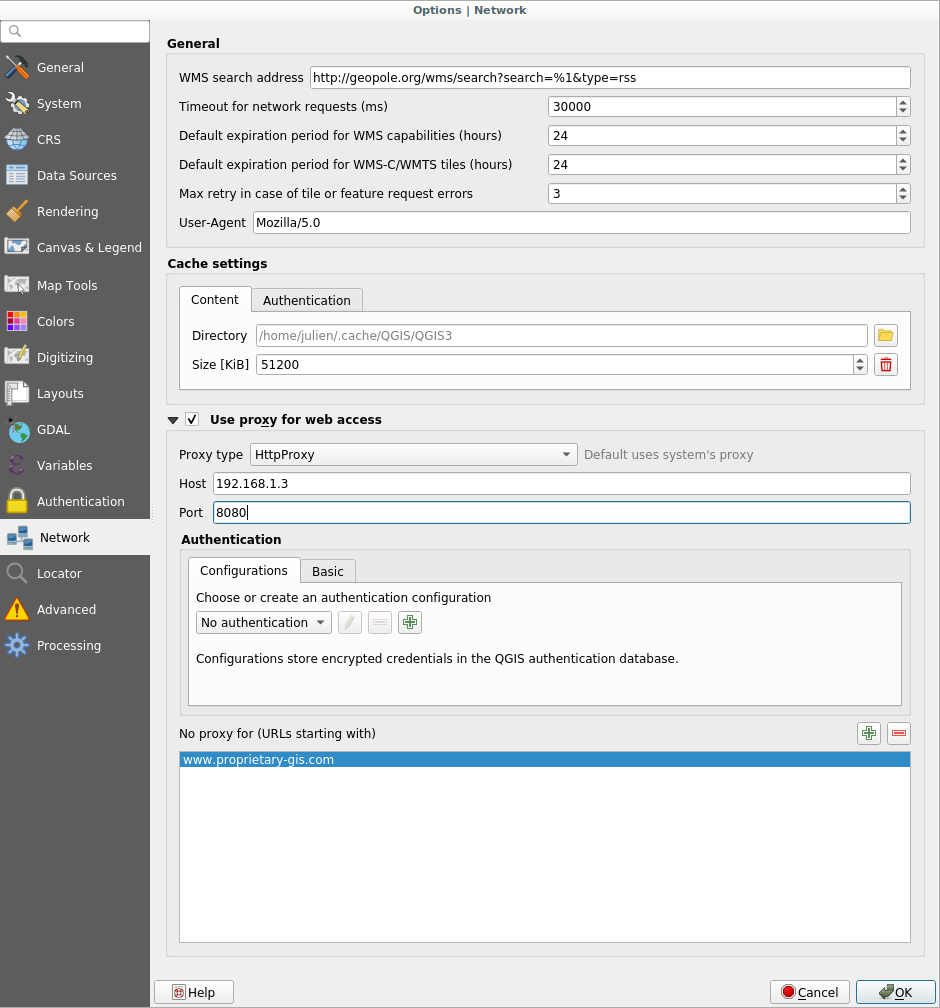
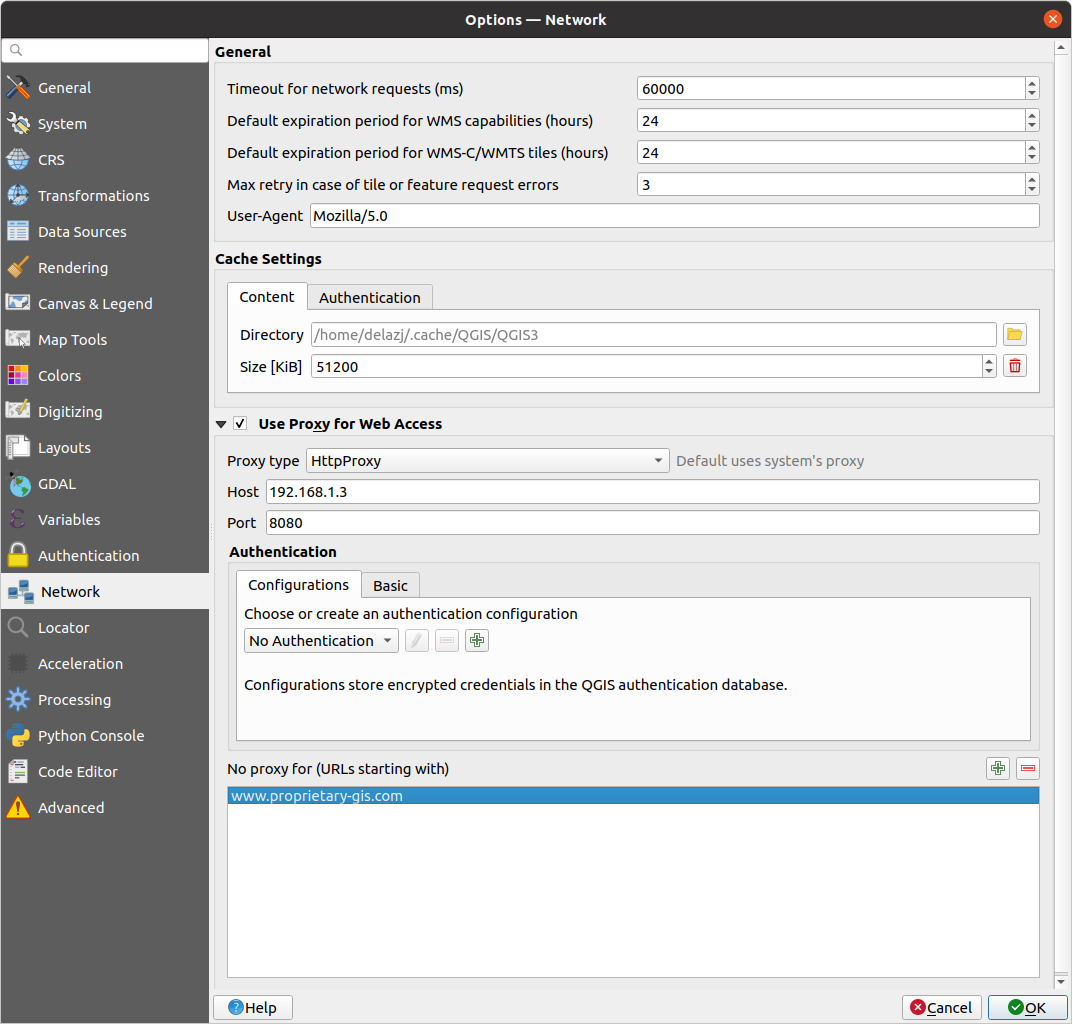
Remove "WMS search address" option

Changed region(s): [[0.0, 0.0, 1.0, 1.0]]

diff --git a/docs/user_manual/introduction/qgis_configuration.rst b/docs/user_manual/introduction/qgis_configuration.rst
@@ -865,12 +865,10 @@ Network Settings
 
 **General**
 
-* Define :guilabel:`WMS search address`, default is
-  ``http://geopole.org/wms/search?search=\%1\&type=rss``
 * Define :guilabel:`Timeout for network requests (ms)` - default is 60000
 * Define :guilabel:`Default expiration period for WMS Capabilities (hours)` -
   default is 24
-* Define :guilabel:`Default expiration period for WMSC/WMTS tiles (hours)` -
+* Define :guilabel:`Default expiration period for WMS-C/WMTS tiles (hours)` -
   default is 24
 * Define :guilabel:`Max retry in case of tile or feature request errors`
 * Define :guilabel:`User-Agent`
